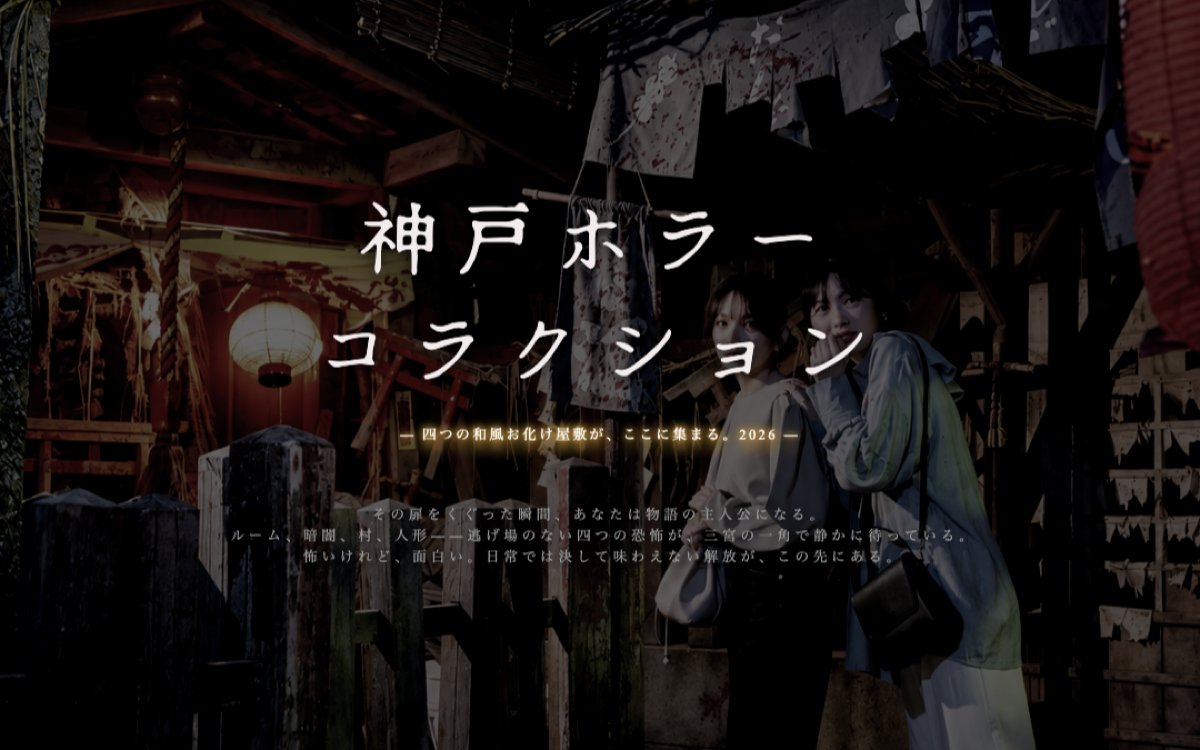
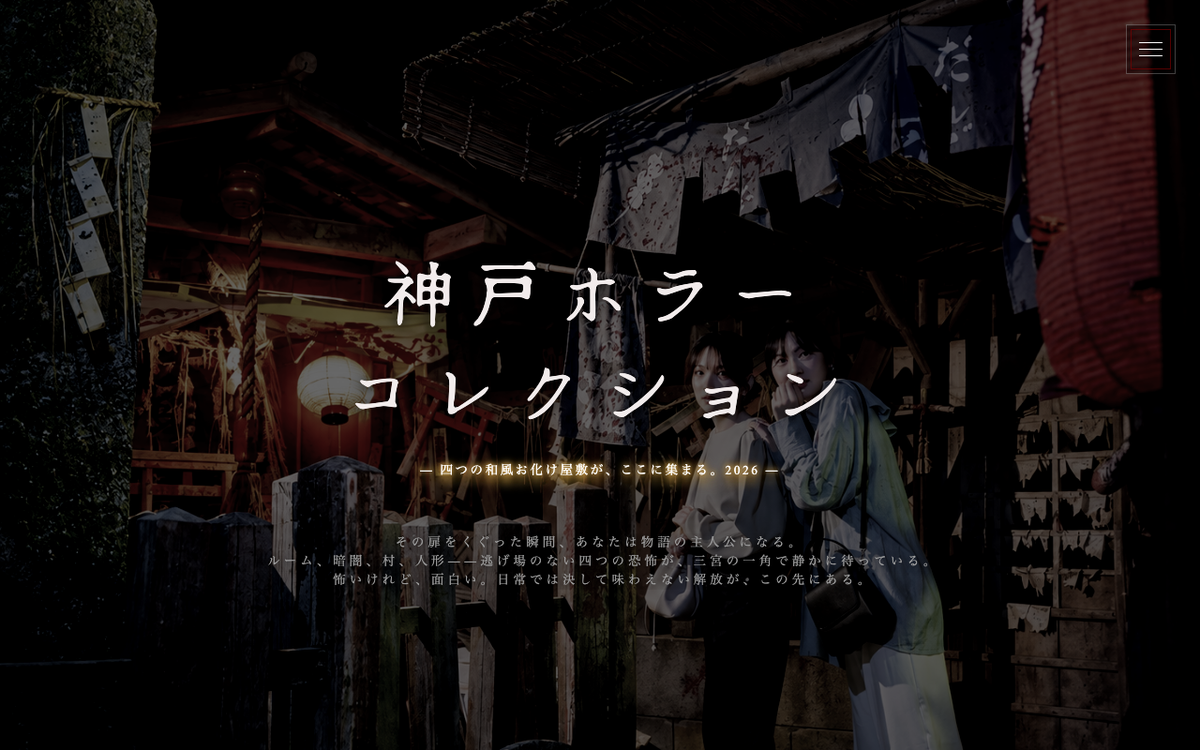
ハロウィンを最新版に更新し、作品名とサムネイルを「コレクション」に修正

diff --git a/index.html b/index.html
@@ -116,7 +116,7 @@
                 <span class="work__num">01</span>
                 <span class="work__cat">Event Site / Solo</span>
               </div>
-              <h3 class="work__title">神戸ホラーコラクション</h3>
+              <h3 class="work__title">神戸ホラーコレクション</h3>
               <p class="work__sub">四つの和風お化け屋敷が、ここに集まる。</p>
               <p class="work__text">
                 和風ホラーをテーマにしたイベントサイト。コンセプト設計からデザイン、コーディングまで

diff --git a/works.html b/works.html
@@ -82,7 +82,7 @@
             <div class="card__thumb"><img src="img/works/halloween.png"></div>
             <div class="card__body">
               <p class="card__cat">Webサイト</p>
-              <h2 class="card__title">神戸ホラーコラクション</h2>
+              <h2 class="card__title">神戸ホラーコレクション</h2>
               <p class="card__role">個人制作 ／ デザイン ／ コーディング</p>
             </div>
           </a>
